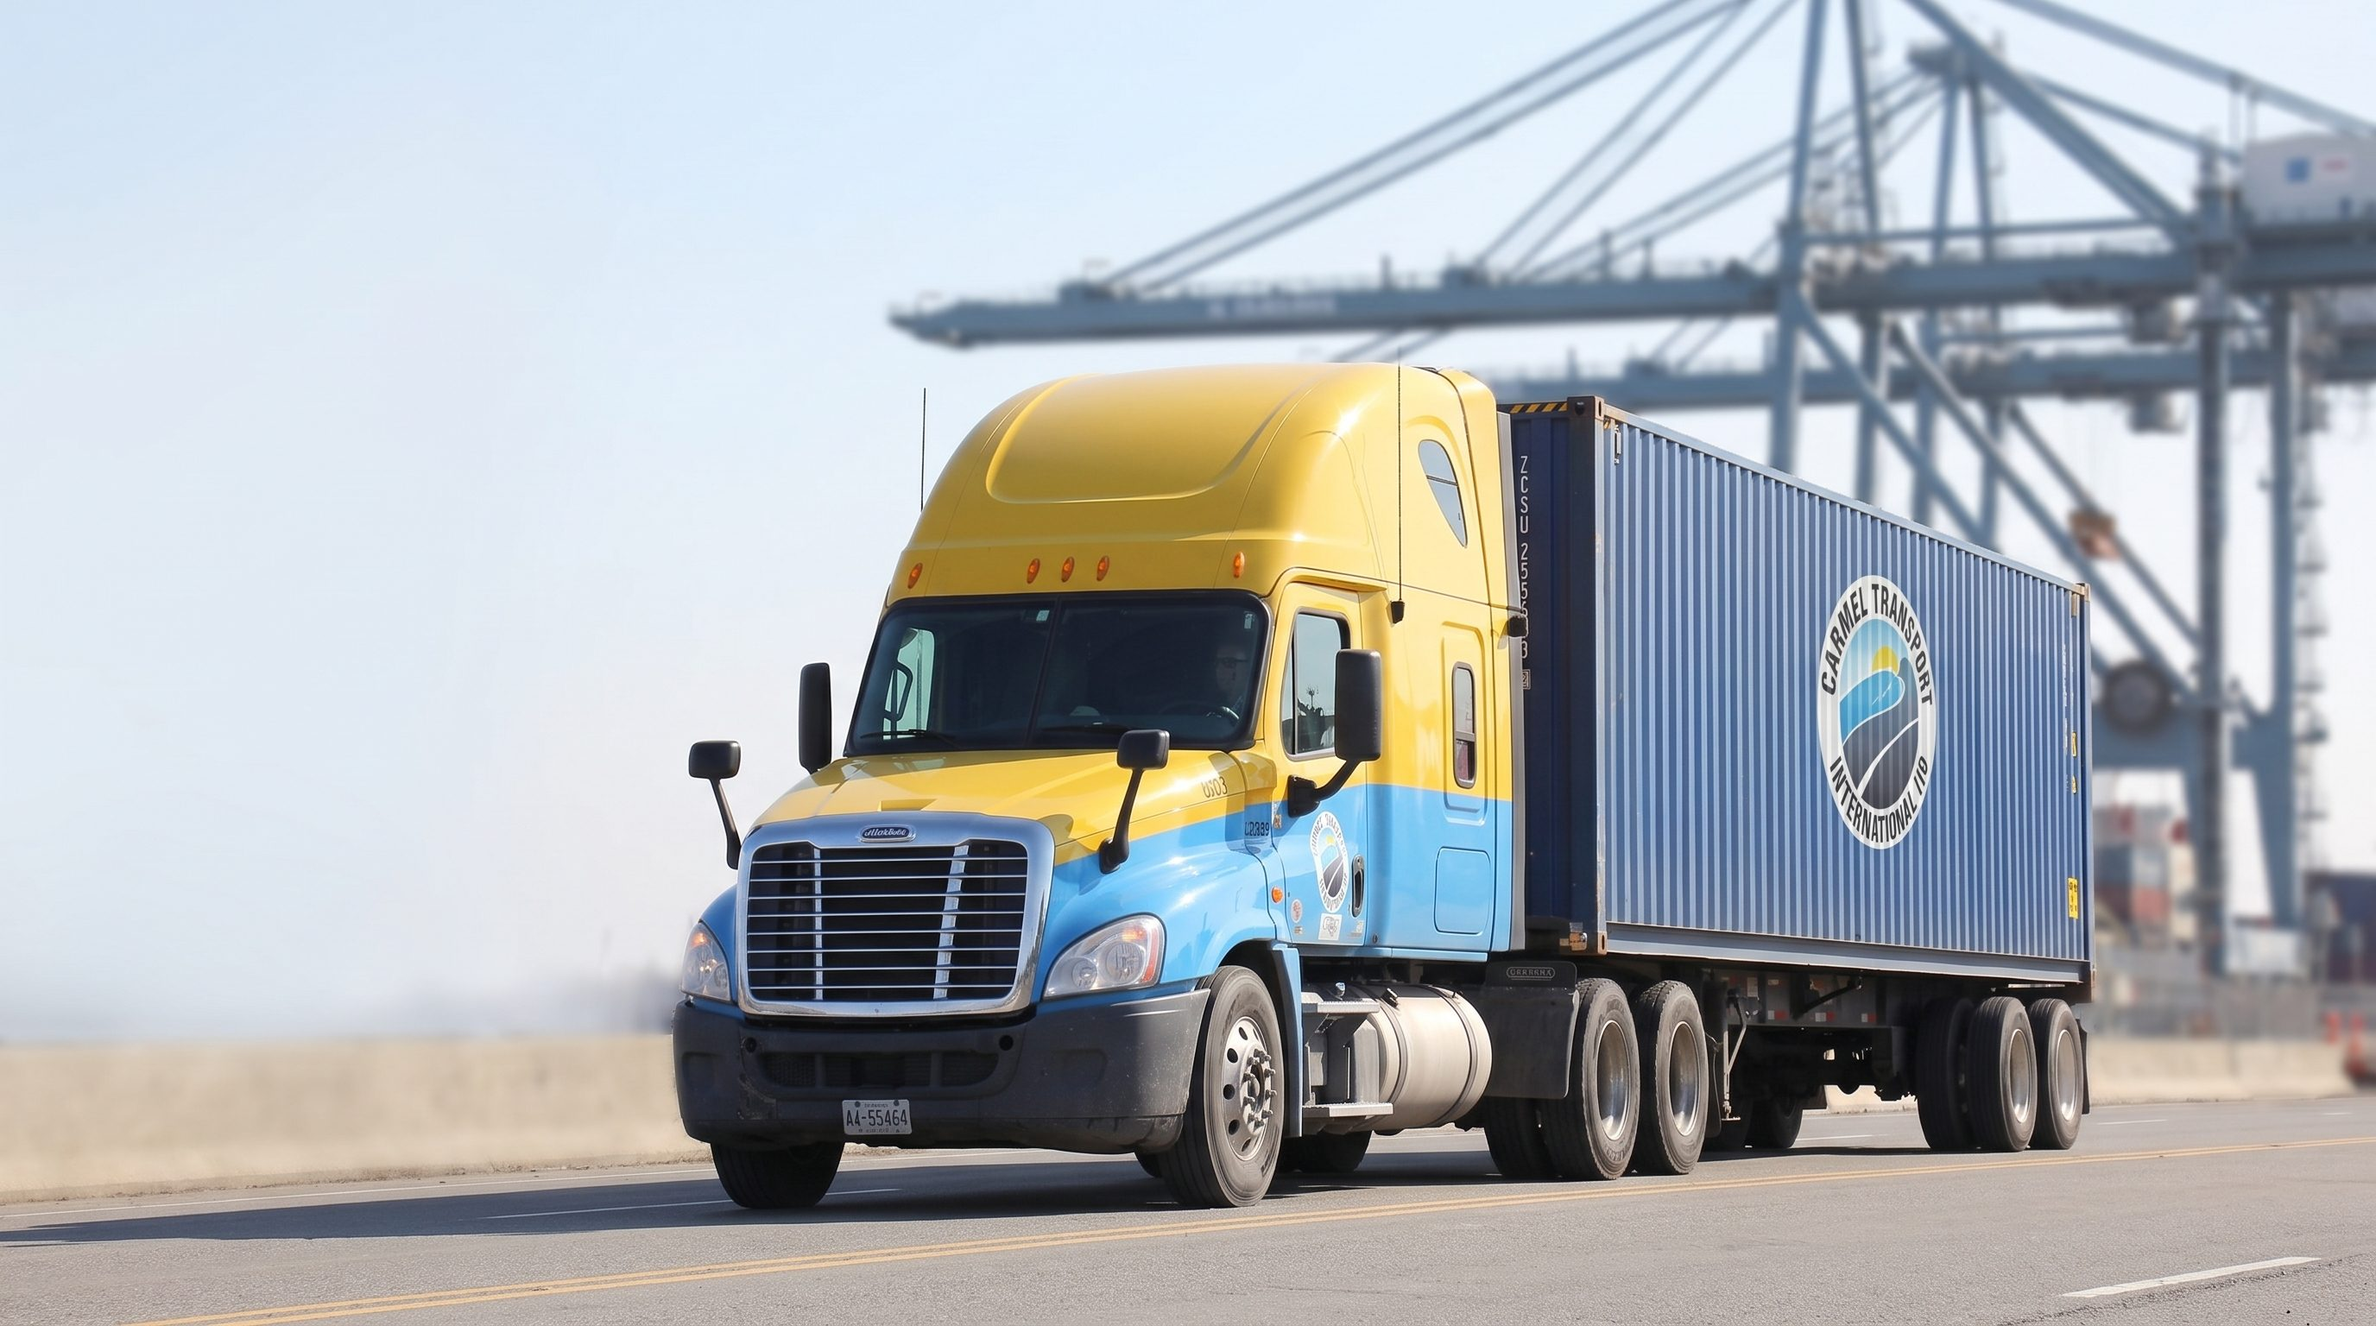
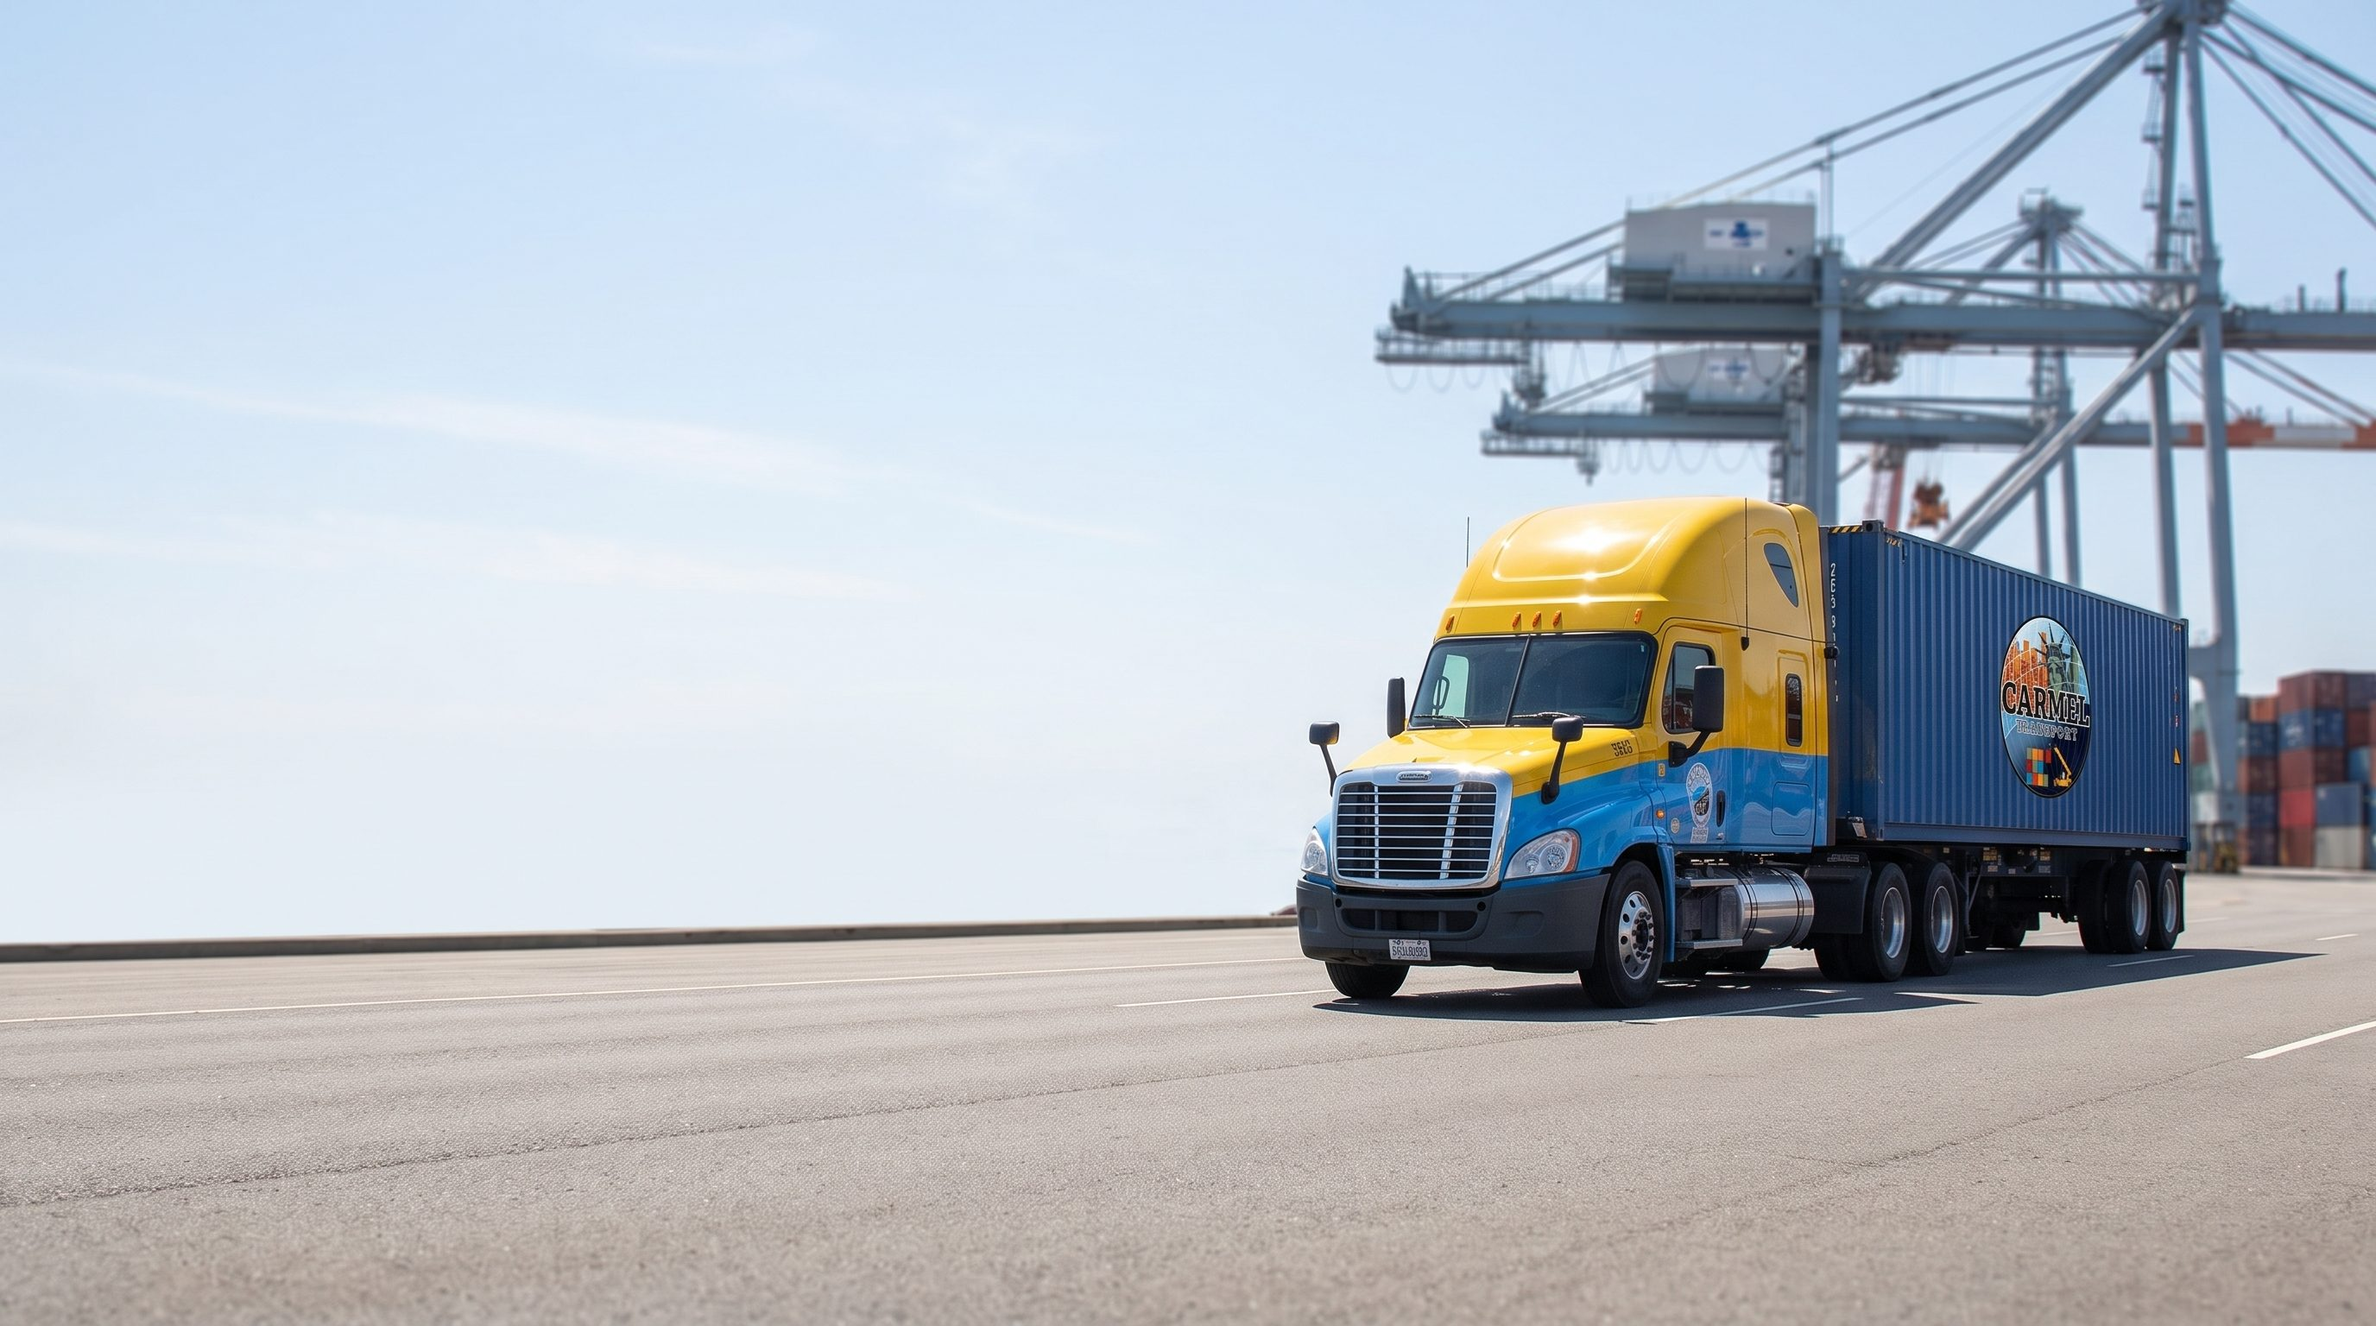
Recompose the covers to the right, and use them everywhere services appear
The covers were correct in livery but composed centre-frame, so the frosted
plate sat on top of the subject. The prompt now states the composition rule
hard rather than politely: every subject lives in the right half, the left
half is empty sky or bare apron with nothing in it at all, and the badge is
named as sitting on a container on the right. The plate can now be laid over
the left half without covering anything.

Every service image on the site points at these four covers — the nav panel,
the homepage service cards, the differentiator, the values row, /company and
/services. The small img/services files they used to share stay only as the
section-02 card placeholders.

Company's service links were still anchors into /services; they point at the
four pages now, like every other link on the site.

Careers cards get their five photographs: an open cab at the yard, an empty
dispatch desk, a maintenance bay, a customer service desk looking onto the
yard, and an owner-operator backing under a chassis. Every one specifies an
empty cab, desk or bay — a generated face is the fastest way to make a
careers page look fake.

diff --git a/app/src/pages/Services.tsx b/app/src/pages/Services.tsx
@@ -18,7 +18,7 @@ const SERVICES = [
     id: "drayage",
     n: "01",
     name: "Drayage",
-    img: "/img/services/drayage.jpg",
+    img: "/img/covers/drayage.jpg",
     body: [
       "We pride ourselves on our superior drayage services. Our goal is to ensure seamless and prompt transportation of your goods, by making sure they arrive at destination in the same condition they left the port, thus reducing the level of concern to a minimum.",
       "Trust in our expertise to keep your goods safe and deliver them with a minimum cost to you.",
@@ -28,7 +28,7 @@ const SERVICES = [
     id: "refrigerated",
     n: "02",
     name: "Refrigerated Containers",
-    img: "/img/services/refrigerated.jpg",
+    img: "/img/covers/refrigerated.jpg",
     body: [
       "Carmel USA delivers a comprehensive solution for both storage and transport of refrigerated containers. Our drivers are proficiently trained in transporting refrigerated items, we hold a substantial number of Genset chassis, and through our associates at Carmel USA Intermodal Logistics Inc, we also extend storage solutions for refrigerated containers. The storage facility is outfitted to accommodate up to 30 refrigerated containers simultaneously.",
     ],
@@ -37,7 +37,7 @@ const SERVICES = [
     id: "intermodal",
     n: "03",
     name: "Intermodal Trucking",
-    img: "/img/services/intermodal.jpg",
+    img: "/img/covers/intermodal.jpg",
     body: [
       "At Carmel USA, we specialize in seamless logistics for ocean and rail container terminals, ensuring your goods reach their destination timely and securely. Our logistics experts manage each shipment with precision, guaranteeing safe handling and prompt deliveries. With our expansive network and custom solutions, we connect you to vital commercial hubs effortlessly. With us, your cargo isn't just delivered - it's handled with care and reliability.",
     ],
@@ -46,7 +46,7 @@ const SERVICES = [
     id: "storage",
     n: "04",
     name: "Storage Facility",
-    img: "/img/services/storage.jpg",
+    img: "/img/covers/storage.jpg",
     body: [
       "Carmel USA offers integrated storage for all types of containers, promising notable savings on storage fees. Situated conveniently near NJ ports, our fully-secured site with 24/7 surveillance offers customers peace of mind against cargo theft. Leveraging a broad fleet featuring company-owned tractors, advanced lifting equipment, and a variety of chassis, we assure prompt, secure services.",
     ],

diff --git a/app/src/components/frame-scrub.tsx b/app/src/components/frame-scrub.tsx
@@ -29,6 +29,15 @@ export interface FrameScrubProps {
   smooth?: number;
   /** How each frame fills the stage. */
   fit?: "cover" | "contain";
+  /** Pan the frame horizontally, as a fraction of stage width (+ = right).
+      Shifts INSIDE the cover crop, so nothing is exposed at the edge: the
+      value is clamped to whatever overflow the crop actually has. Used to
+      line a subject up with the subject of the sequence that follows it. */
+  offsetX?: number;
+  /** Fraction of the scrub over which `offsetX` eases in, measured from the
+      end. 0.25 means the pan is nil until 75% and fully applied at the last
+      frame, so it reads as drift rather than as a shifted picture. */
+  offsetXRamp?: number;
   /** Maximum stage width in pixels. */
   width?: number;
   /** Stage height as a fraction of the viewport. */
@@ -345,6 +354,8 @@ export const FrameScrub = ({
   scrollLength = 3,
   smooth = 0.18,
   fit = "cover",
+  offsetX = 0,
+  offsetXRamp = 0.25,
   width = 1020,
   height = 0.72,
   borderRadius = 20,
@@ -666,8 +677,16 @@ export const FrameScrub = ({
             : Math.max(cw / f.w, ch / f.h);
         const dw = f.w * scale;
         const dh = f.h * scale;
+        // Pan, eased in over the tail of the scrub, then clamped to the slack
+        // the cover crop leaves. Without the clamp a wide viewport (less
+        // overflow) would slide the picture off its own edge and show the
+        // background colour down one side.
+        const ramp = clamp(offsetXRamp, 0.0001, 1);
+        const lead = clamp((clamp(p, 0, 1) - (1 - ramp)) / ramp, 0, 1);
+        const slack = Math.max(0, (dw - cw) / 2);
+        const pan = clamp(offsetX * lead * cw, -slack, slack);
         ctx.globalAlpha = clamp(alpha, 0, 1);
-        ctx.drawImage(f.img, (cw - dw) / 2, (ch - dh) / 2, dw, dh);
+        ctx.drawImage(f.img, (cw - dw) / 2 + pan, (ch - dh) / 2, dw, dh);
         ctx.globalAlpha = 1;
       };
 
@@ -812,6 +831,8 @@ export const FrameScrub = ({
       fit,
       grain,
       lag,
+      offsetX,
+      offsetXRamp,
       punch,
       slices,
       feed,

diff --git a/app/src/pages/Company.tsx b/app/src/pages/Company.tsx
@@ -42,10 +42,10 @@ const SECTIONS = [
 ]
 
 const SERVICES = [
-  { name: "Drayage",                 img: "/img/services/drayage.jpg",      href: "/services#drayage",      body: "We provide a full range asset-based drayage and full transload services" },
-  { name: "Refrigerated Containers", img: "/img/services/refrigerated.jpg", href: "/services#refrigerated", body: "We offer all-encompassing storage and transit of refrigerated containers" },
-  { name: "Intermodal Trucking",     img: "/img/services/intermodal.jpg",   href: "/services#intermodal",   body: "We operate to ocean and rail container terminals, ensuring your goods reach their destination" },
-  { name: "Storage Facility",        img: "/img/services/storage.jpg",      href: "/services#storage",      body: "We provide an all-inclusive storage solution for all sizes of dry-box and refrigerated containers" },
+  { name: "Drayage",                 img: "/img/covers/drayage.jpg",      href: "/services/drayage",      body: "We provide a full range asset-based drayage and full transload services" },
+  { name: "Refrigerated Containers", img: "/img/covers/refrigerated.jpg", href: "/services/refrigerated", body: "We offer all-encompassing storage and transit of refrigerated containers" },
+  { name: "Intermodal Trucking",     img: "/img/covers/intermodal.jpg",   href: "/services/intermodal",   body: "We operate to ocean and rail container terminals, ensuring your goods reach their destination" },
+  { name: "Storage Facility",        img: "/img/covers/storage.jpg",      href: "/services/storage",      body: "We provide an all-inclusive storage solution for all sizes of dry-box and refrigerated containers" },
 ]
 
 export default function Company() {

diff --git a/app/src/components/site/ServicesIntro.tsx b/app/src/components/site/ServicesIntro.tsx
@@ -11,7 +11,7 @@ const SERVICES = [
     name: "Drayage",
     head: "From terminal to destination",
     body: "A full range of asset-based drayage and transload services, connecting ports, terminals, warehouses, and final destinations.",
-    img: "/img/services/drayage.jpg",
+    img: "/img/covers/drayage.jpg",
     href: "/services/drayage",
     cta: "Explore Drayage",
   },
@@ -20,7 +20,7 @@ const SERVICES = [
     name: "Refrigerated",
     head: "Keeping cargo in control",
     body: "Comprehensive refrigerated container transport and storage, supported by experienced drivers and Genset chassis, up to 30 units at once.",
-    img: "/img/services/refrigerated.jpg",
+    img: "/img/covers/refrigerated.jpg",
     href: "/services/refrigerated",
     cta: "Explore Refrigerated Logistics",
   },
@@ -29,7 +29,7 @@ const SERVICES = [
     name: "Intermodal",
     head: "Connecting every leg",
     body: "Ocean and rail container terminals, pre-arranged rail reservations, documentation and border clearance support.",
-    img: "/img/services/intermodal.jpg",
+    img: "/img/covers/intermodal.jpg",
     href: "/services/intermodal",
     cta: "Explore Intermodal Trucking",
   },
@@ -38,7 +38,7 @@ const SERVICES = [
     name: "Storage",
     head: "Space to keep moving",
     body: "Secure short- and long-term storage for dry-box and refrigerated containers, in yards near major seaports and rail terminals.",
-    img: "/img/services/storage.jpg",
+    img: "/img/covers/storage.jpg",
     href: "/services/storage",
     cta: "Explore Storage Solutions",
   },

diff --git a/app/src/components/site/Nav.tsx b/app/src/components/site/Nav.tsx
@@ -14,10 +14,10 @@ gsap.registerPlugin(ScrollTrigger)
    backdrop is dropped — the footage is the backdrop here. */
 
 const SERVICES = [
-  { icon: Truck,      title: "Drayage",       description: "Port to door, same day",            href: "/services/drayage",    img: "/img/services/drayage.jpg" },
-  { icon: Snowflake,  title: "Refrigerated",  description: "Reefer transport and 30-slot yard", href: "/services/refrigerated", img: "/img/services/refrigerated.jpg" },
-  { icon: TrainFront, title: "Intermodal",    description: "Ocean and rail terminals",          href: "/services/intermodal",   img: "/img/services/intermodal.jpg" },
-  { icon: Warehouse,  title: "Storage",       description: "Secured container yard in Kearny",  href: "/services/storage",      img: "/img/services/storage.jpg" },
+  { icon: Truck,      title: "Drayage",       description: "Port to door, same day",            href: "/services/drayage",    img: "/img/covers/drayage.jpg" },
+  { icon: Snowflake,  title: "Refrigerated",  description: "Reefer transport and 30-slot yard", href: "/services/refrigerated", img: "/img/covers/refrigerated.jpg" },
+  { icon: TrainFront, title: "Intermodal",    description: "Ocean and rail terminals",          href: "/services/intermodal",   img: "/img/covers/intermodal.jpg" },
+  { icon: Warehouse,  title: "Storage",       description: "Secured container yard in Kearny",  href: "/services/storage",      img: "/img/covers/storage.jpg" },
 ]
 
 const LINKS = [

diff --git a/app/src/components/site/Values.tsx b/app/src/components/site/Values.tsx
@@ -13,19 +13,19 @@ import { ShieldCheck, Gauge, MessagesSquare } from "lucide-react"
 const VALUES = [
   {
     icon: ShieldCheck,
-    img: "/img/services/storage.jpg",
+    img: "/img/covers/storage.jpg",
     head: "Reliable & Protected",
     body: "You benefit from our history of delivering effective solutions, regardless of complexity. Our proven track record speaks for our ability to handle any situation with proficiency and expertise.",
   },
   {
     icon: Gauge,
-    img: "/img/services/drayage.jpg",
+    img: "/img/covers/drayage.jpg",
     head: "Fast Delivery",
     body: "Take advantage of our strategic location near the New York and New Jersey ports. Rely on our skilled drivers for timely and secure delivery of your cargo.",
   },
   {
     icon: MessagesSquare,
-    img: "/img/services/intermodal.jpg",
+    img: "/img/covers/intermodal.jpg",
     head: "Outstanding Client Support",
     body: "We are prepared to channel our enthusiasm for problem-solving towards enhancing your business operations.",
   },

diff --git a/app/src/components/site/Differentiator.tsx b/app/src/components/site/Differentiator.tsx
@@ -10,19 +10,19 @@ const POINTS = [
     icon: Tag,
     head: "Transparent pricing",
     body: "Precise quotes designed to match your invoice—without unexpected charges or surprises.",
-    img: "/img/services/drayage.jpg",
+    img: "/img/covers/drayage.jpg",
   },
   {
     icon: Truck,
     head: "A fleet built for flexibility",
     body: "From 20', 40', and 45' containers to dry, overweight, refrigerated, open-top, and flat-rack cargo, our equipment is ready for a wide range of requirements.",
-    img: "/img/services/storage.jpg",
+    img: "/img/covers/storage.jpg",
   },
   {
     icon: Clock,
     head: "Support around the clock",
     body: "Our team monitors shipments 24/7 to help ensure a seamless transition throughout the transportation process.",
-    img: "/img/services/intermodal.jpg",
+    img: "/img/covers/intermodal.jpg",
   },
 ]
 

diff --git a/app/src/components/site/Stage.tsx b/app/src/components/site/Stage.tsx
@@ -86,6 +86,15 @@ export function Stage() {
         start={1}
         variant="plain"
         fit="cover"
+        /* MATCH CUT into the ship. The truck's container sits at 51.76% of
+           frame width on the last frame; the Carmel container on the ship's
+           deck sits at 46.37% and holds there right through the handoff. Both
+           are static, so the gap is a constant 5.39% — pan the hero left by
+           exactly that and the container the truck is carrying becomes the
+           container on the ship. Re-measure both if either sequence is
+           re-rendered; the number is footage-specific, not a magic constant. */
+        offsetX={-0.0539}
+        offsetXRamp={0.25}
         height={0.95}
         width={4000}
         borderRadius={0}

diff --git a/app/src/styles/sections.css b/app/src/styles/sections.css
@@ -335,6 +335,16 @@
 }
 .foot-actions { margin: var(--sp-6) 0 0; }
 
+/* The contact facts sit in the left column and the heading in the right: the
+   details are what someone came to the footer for, and on the left they are
+   clear of the globe bleeding in off the right edge. DOM order stays
+   heading-first for reading order; only the two-column layout reorders, so
+   the single-column stack below still leads with the heading. */
+@media (min-width: 901px) {
+  .foot-top > :first-child { order: 2; }
+  .foot-top > .foot-details { order: 1; }
+}
+
 /* contact: a grid of equal facts, icon + label + value */
 .foot-details {
   margin: 0; padding: 0; list-style: none;

diff --git a/app/src/components/site/Closing.tsx b/app/src/components/site/Closing.tsx
@@ -241,7 +241,9 @@ export function Closing() {
           <Globe
             width="auto"
             height="auto"
-            primaryColor="#6AB0FF"
+            /* arcs (and labels) take the brand orange; the sphere, land dots
+               and atmosphere stay in the footer's blues */
+            primaryColor="#FE9B23"
             neutralColor="#3E92F5"
             globeColor="#081D35"
             atmosphereColor="#6AB0FF"

diff --git a/app/src/sandbox/Sandbox.tsx b/app/src/sandbox/Sandbox.tsx
@@ -17,7 +17,7 @@ function SquircleCard() {
     <article className="sb-card">
       <div className="sb-card-stage">
         <div className="sb-card-frame">
-          <img src="/img/services/drayage.jpg" alt="" />
+          <img src="/img/covers/drayage.jpg" alt="" />
         </div>
         <div className="sb-card-pill">
           <span className="sb-card-pill-icon" aria-hidden="true">
